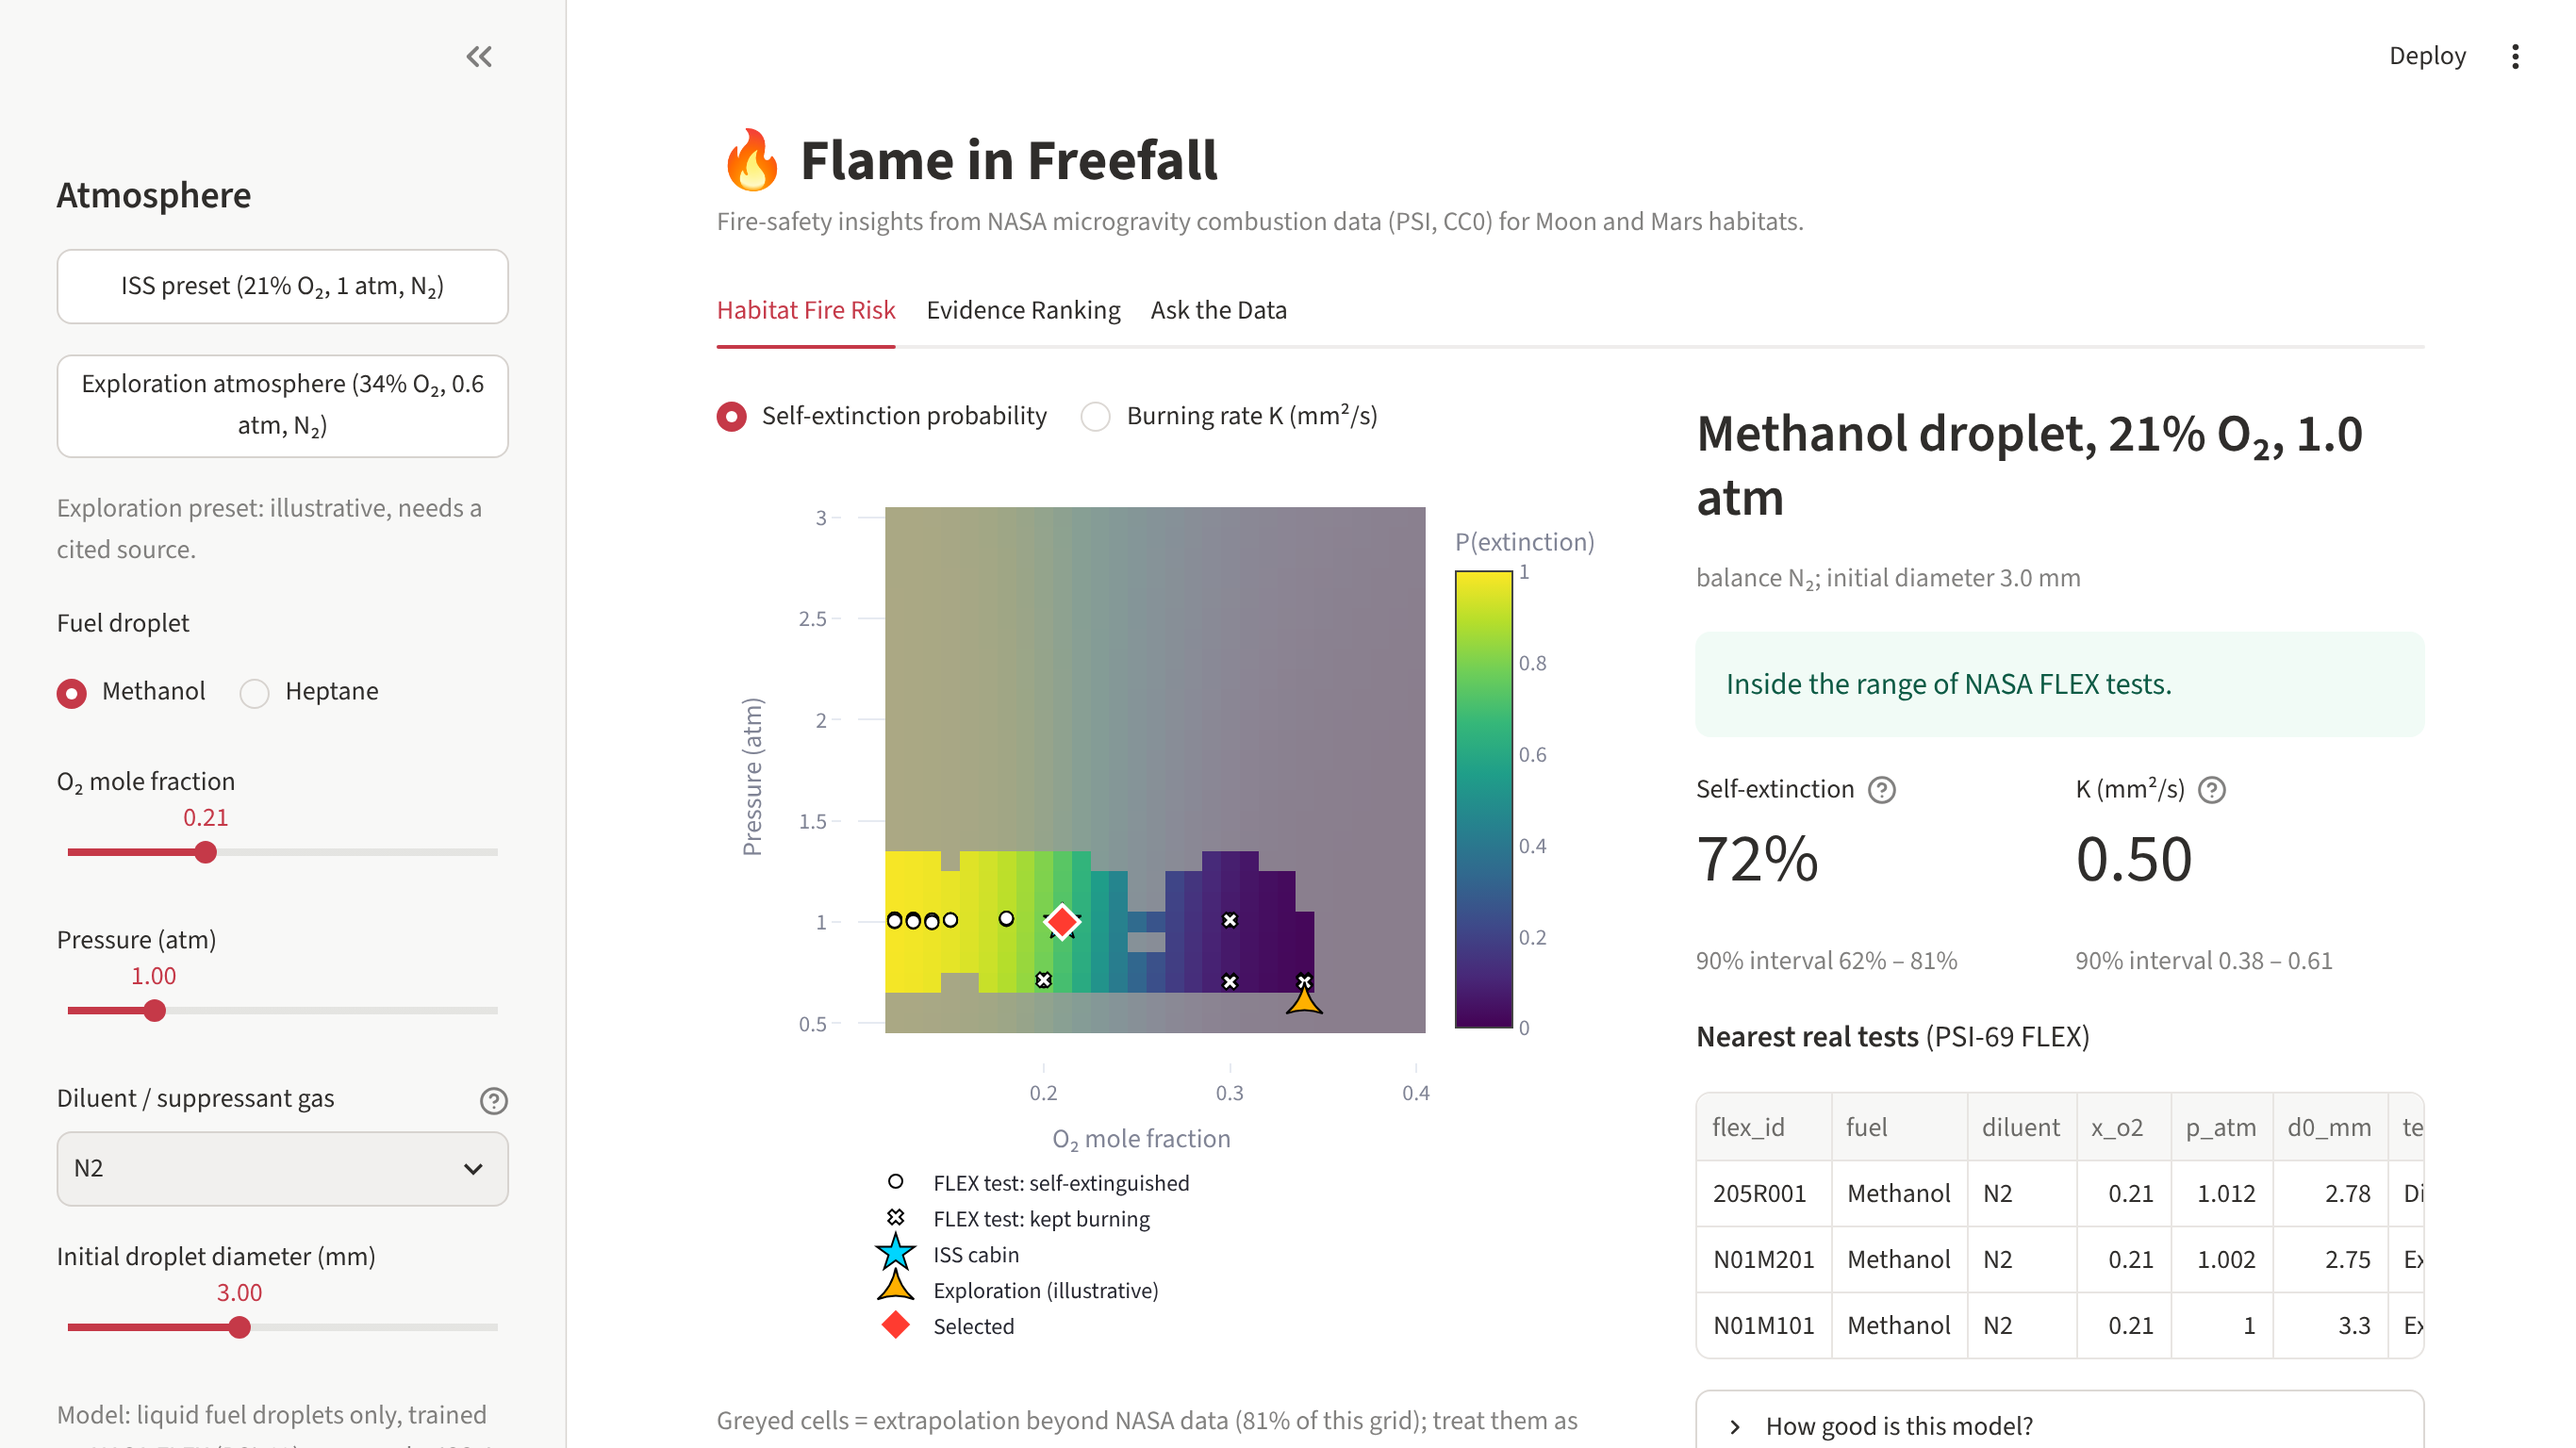
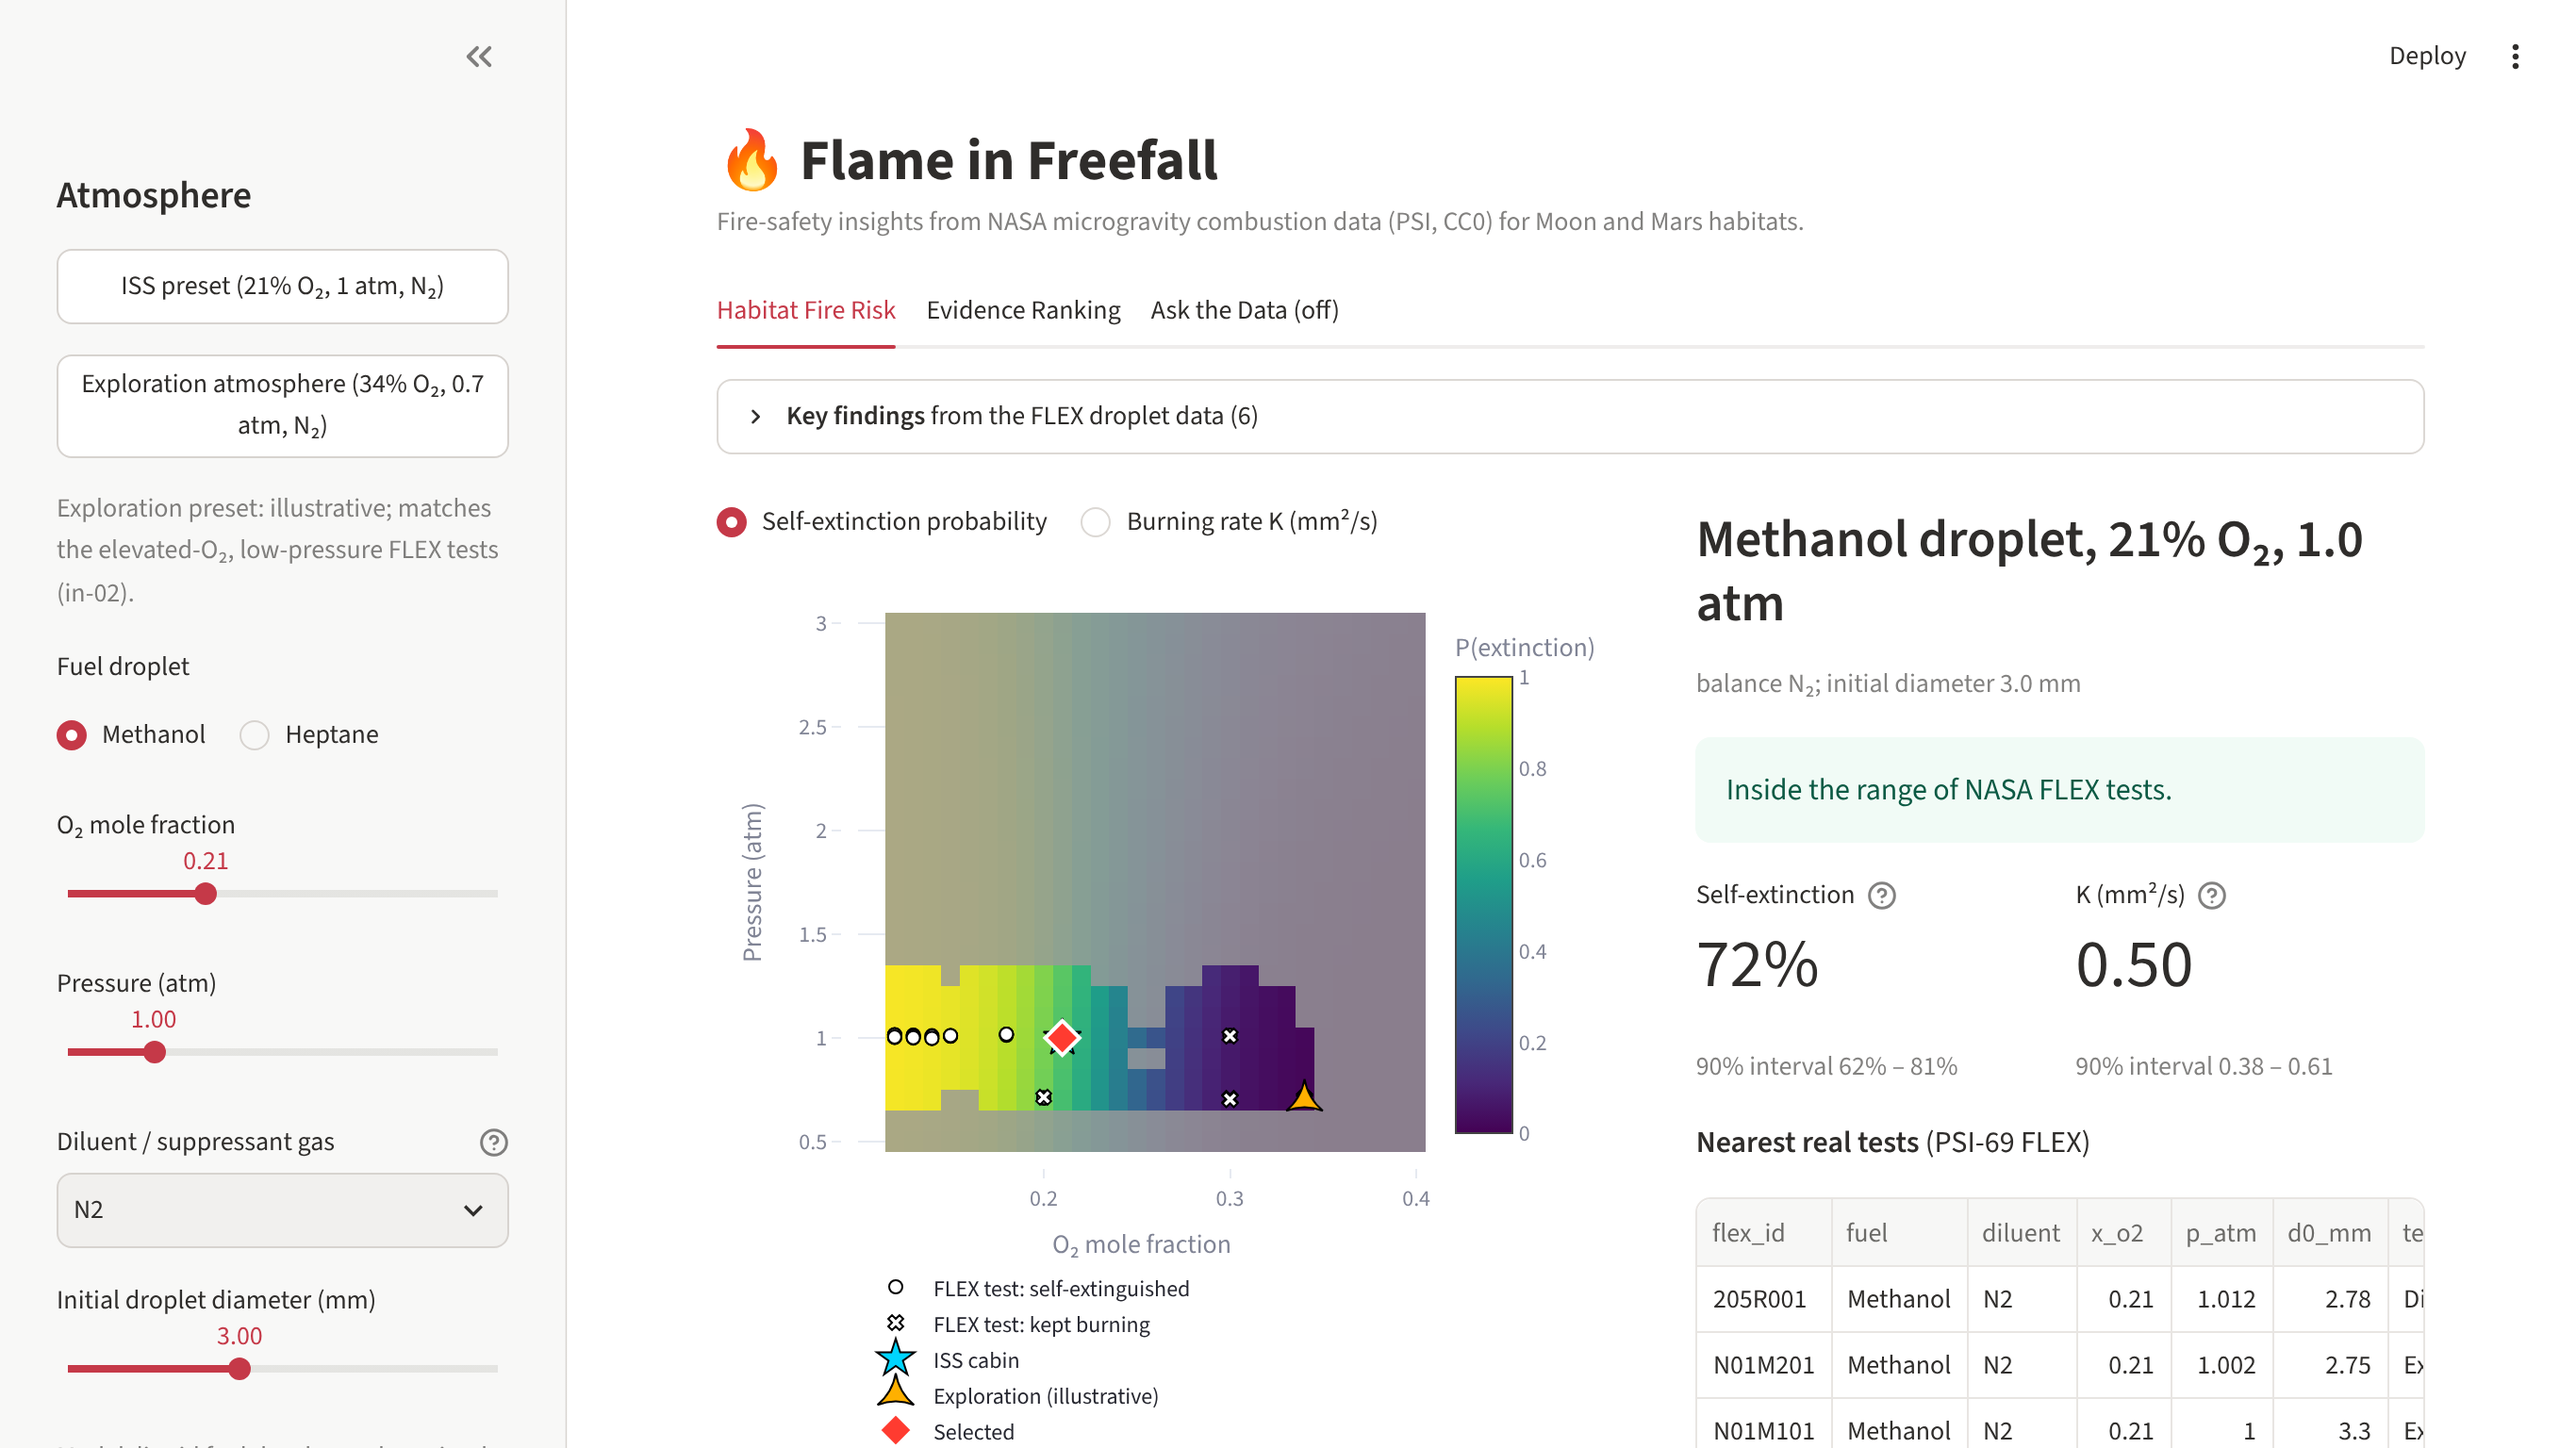
Collapse Key findings by default, move exploration preset to 0.7 atm (in FLEX range), retake risk screenshot
Claude-Session: https://claude.ai/code/session_015EDQA4fkJcaMdRNwmznVrX

diff --git a/app/app.py b/app/app.py
@@ -35,10 +35,11 @@ FLEX_PATH = fm.DATA_PATH
 ISS = {"x_o2": 0.21, "p_atm": 1.0, "diluent": "N2", "x_diluent": 0.0}
 
 # Second preset: a reduced-pressure, oxygen-enriched cabin of the kind discussed for exploration
-# habitats. The values are ILLUSTRATIVE. Once a document is cited for them, set "source" to that
+# habitats. The values are ILLUSTRATIVE (not an official NASA atmosphere); they sit on real FLEX
+# tests at 0.70-0.71 atm, 30-34% O2. Once a document is cited for them, set "source" to that
 # citation and the "illustrative" labels in the UI disappear.
-EXPLORATION = {"x_o2": 0.34, "p_atm": 0.6, "diluent": "N2", "x_diluent": 0.0, "source": None}
-EXPLORATION_NOTE = EXPLORATION["source"] or "illustrative, needs a cited source"
+EXPLORATION = {"x_o2": 0.34, "p_atm": 0.7, "diluent": "N2", "x_diluent": 0.0, "source": None}
+EXPLORATION_NOTE = EXPLORATION["source"] or "illustrative; matches the elevated-O₂, low-pressure FLEX tests (in-02)"
 
 SAMPLE_QUESTIONS = [
     "What happens to a burning droplet when oxygen goes up?",
@@ -194,7 +195,7 @@ def insight_line(i: dict) -> str:
 
 with tab_risk:
     if insights:
-        with st.expander(f"**Key findings** from the FLEX droplet data ({len(insights)})", expanded=True):
+        with st.expander(f"**Key findings** from the FLEX droplet data ({len(insights)})", expanded=False):
             st.markdown("\n".join("- " + insight_line(i) for i in insights))
             st.caption("Liquid fuel droplets in microgravity only; not predictions for solid materials or habitat fires.")
 
